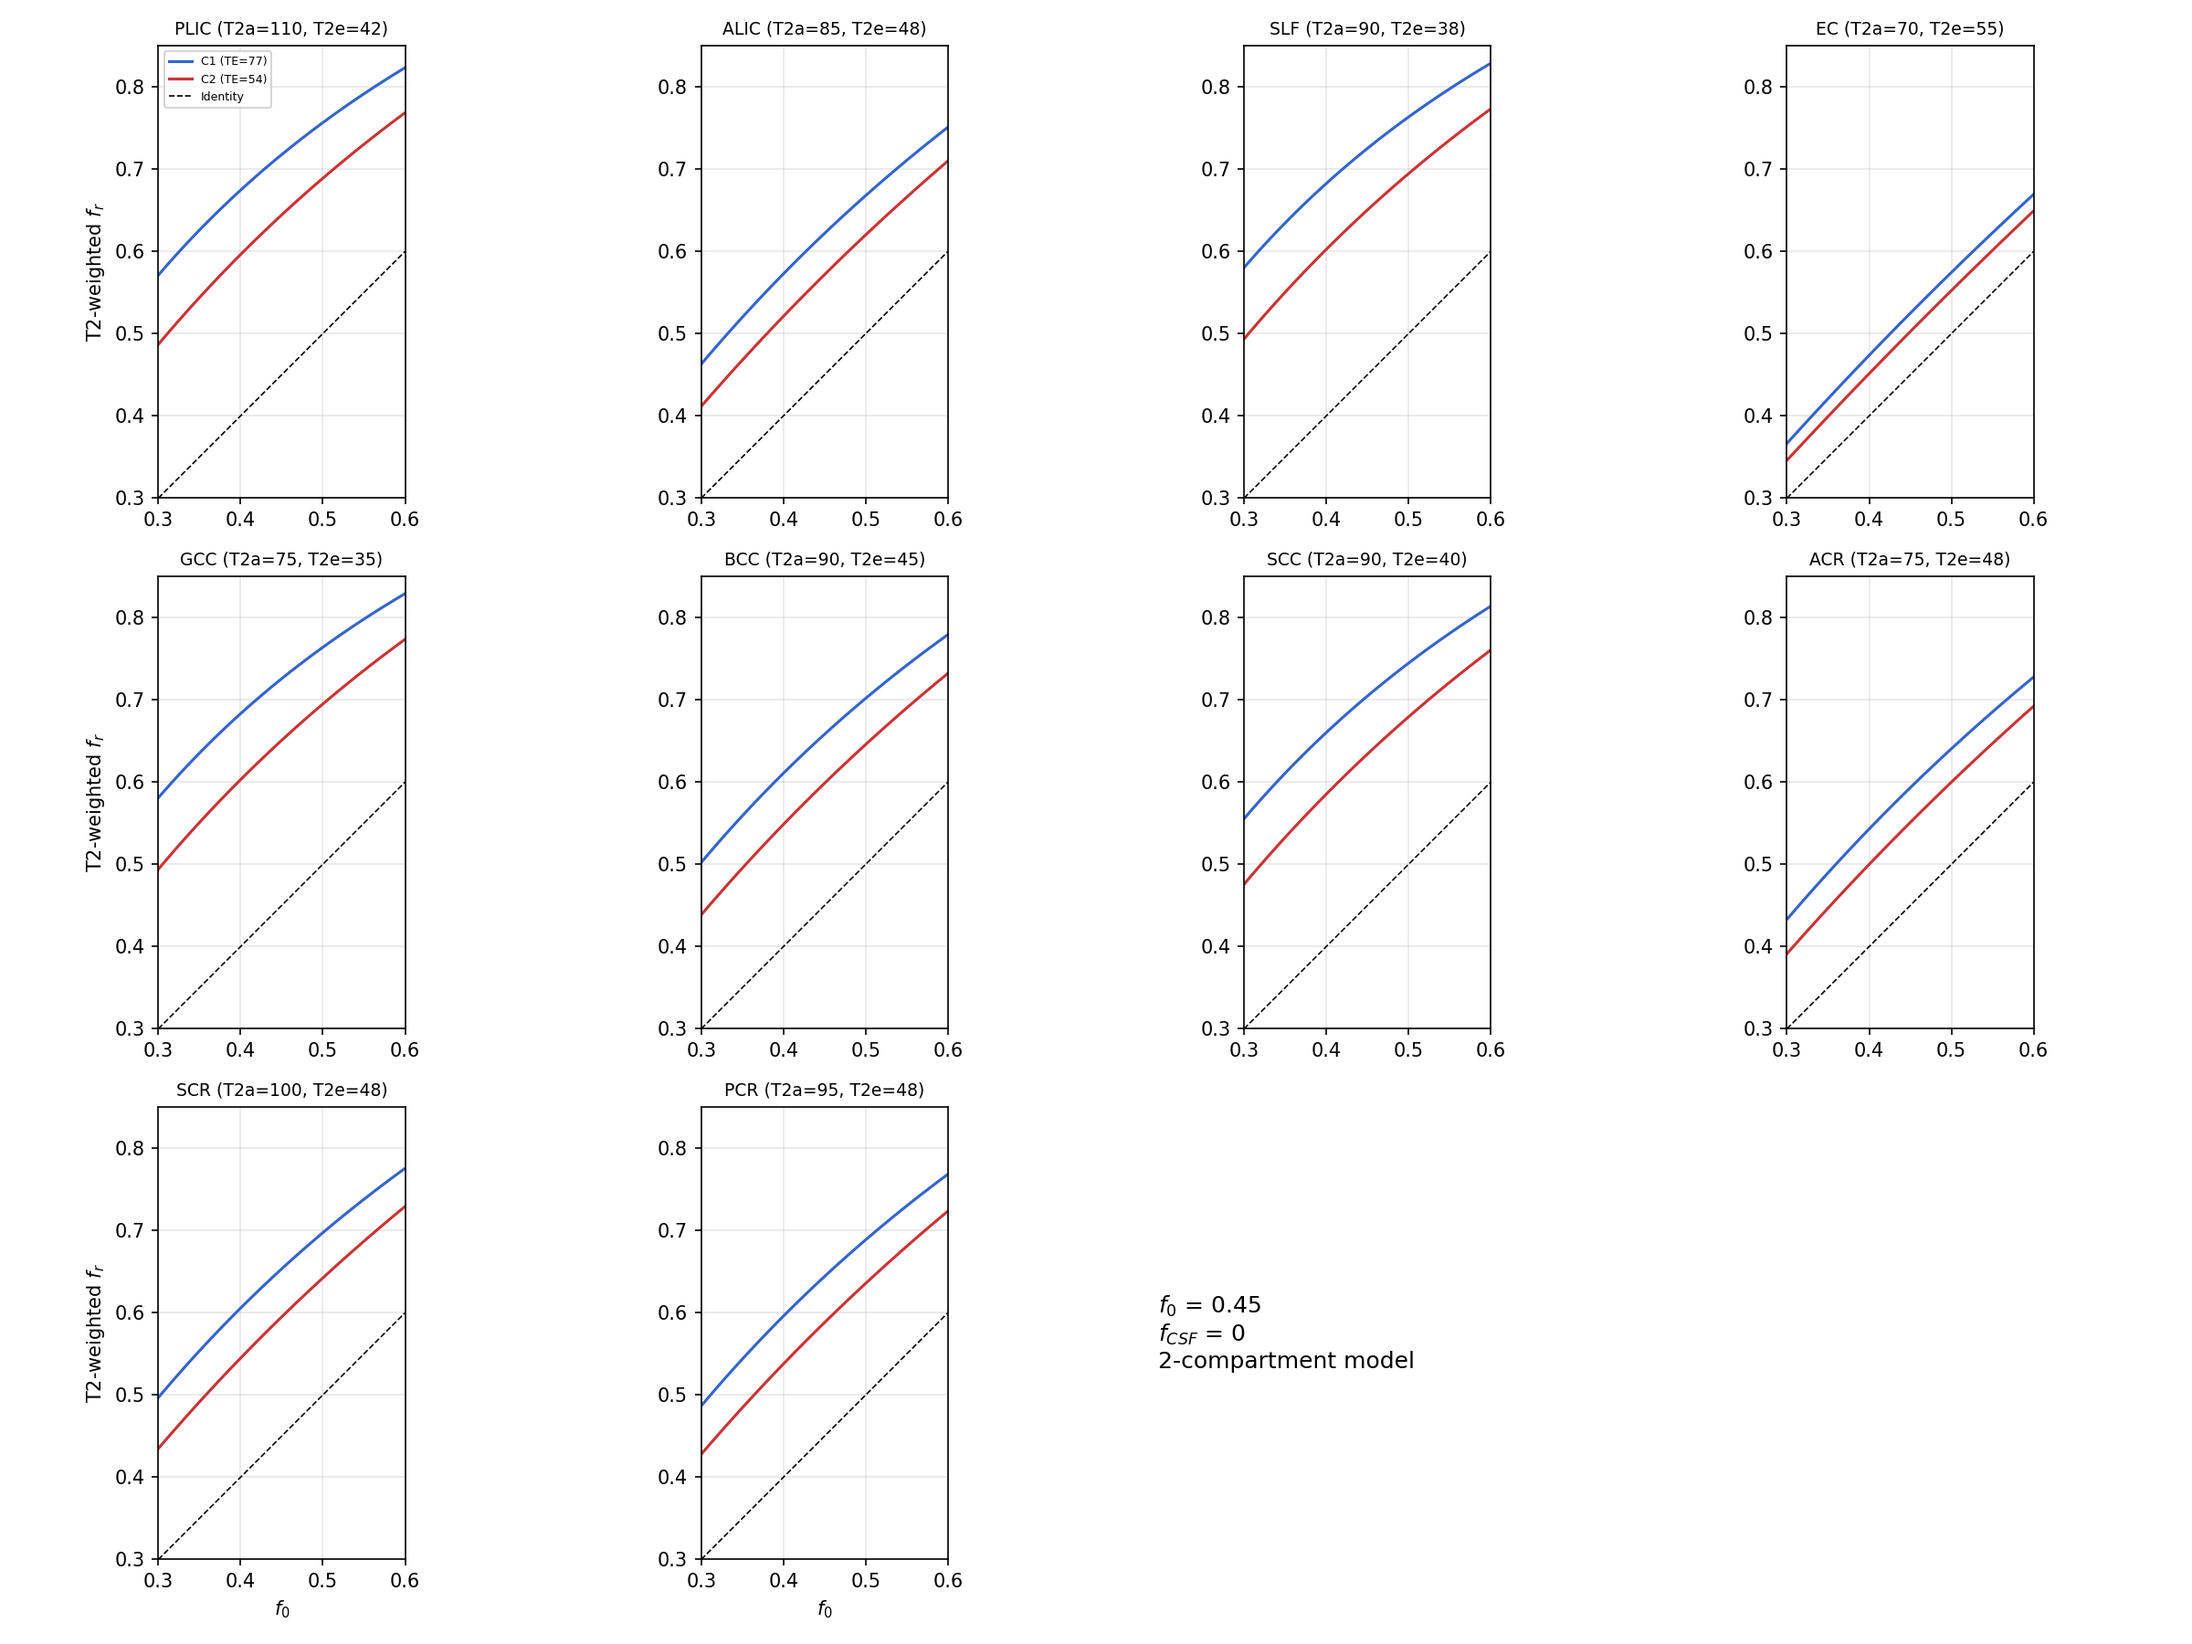
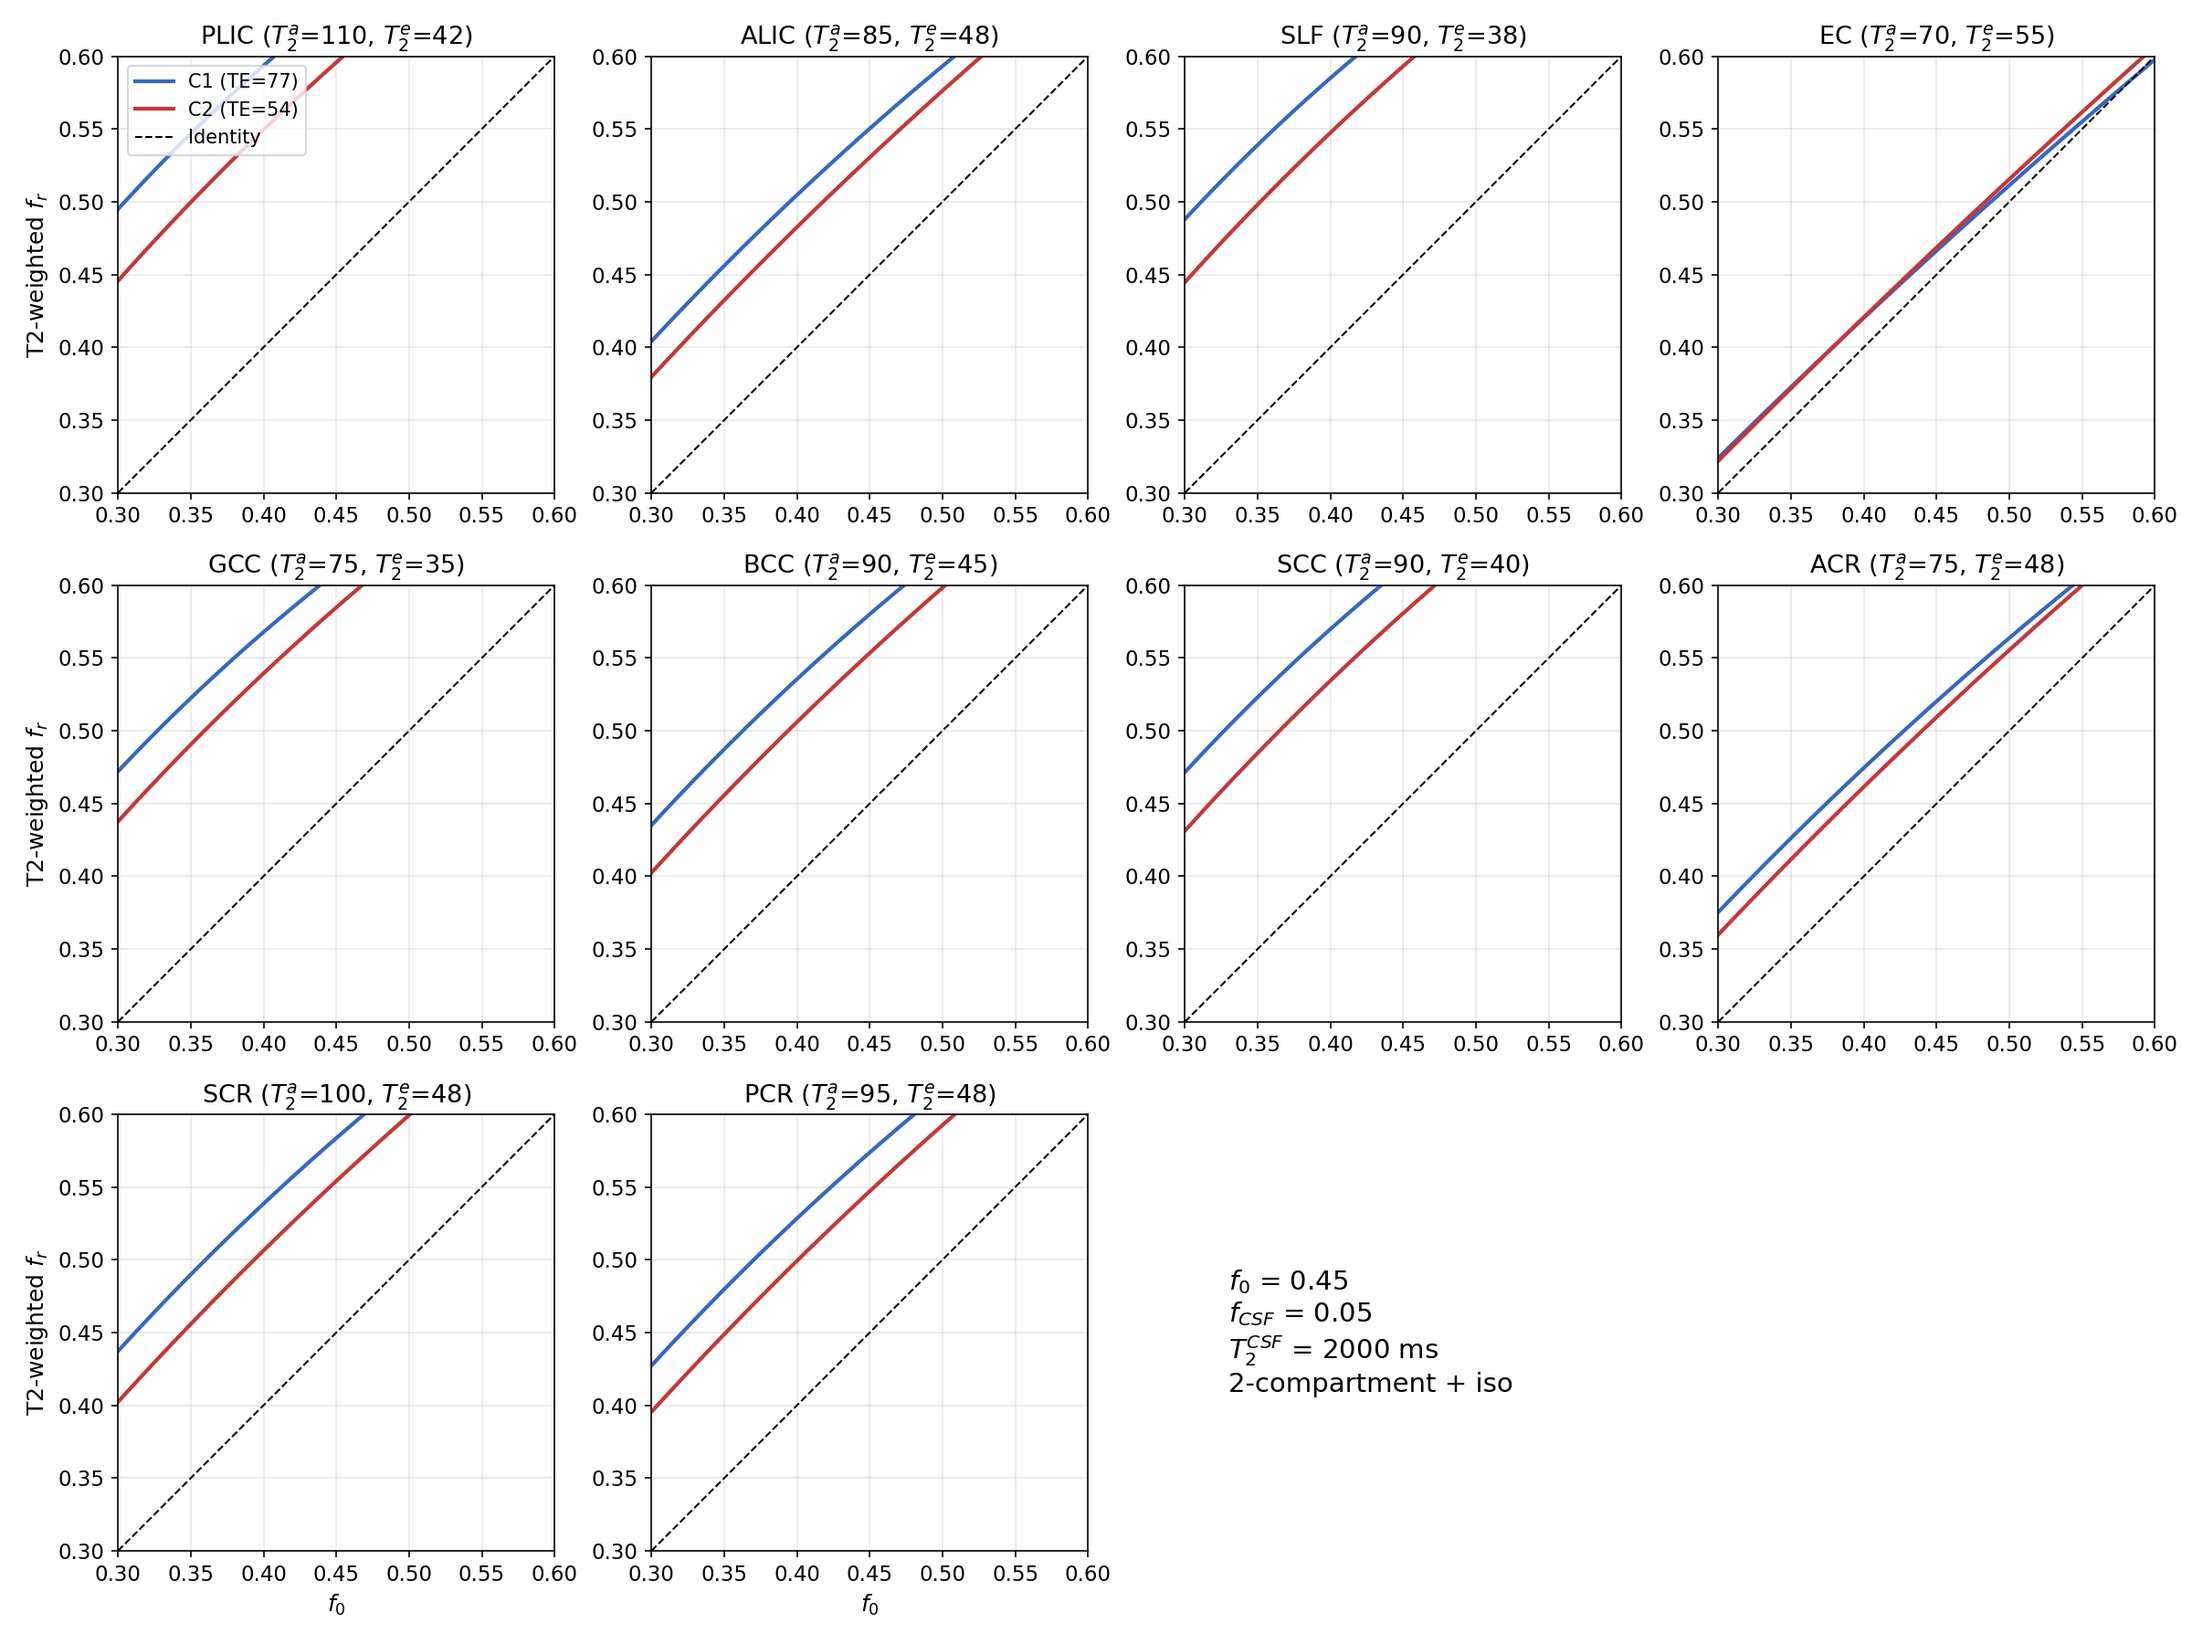
per-ROI plot: larger font, square axes (0.3-0.6), fCSF=0.05

diff --git a/demo_T2_weighted_fraction.m b/demo_T2_weighted_fraction.m
@@ -85,6 +85,8 @@ grid on; box on;
 exportgraphics(gcf, 'fig_T2_fr_pct_diff.pdf', 'ContentType', 'vector');
 
 %% 5. Figure 3: f(TE) vs original f sweep — per ROI (3x4 grid)
+fcsf = 0.05;
+T2csf = 2000;
 fr_sweep = linspace(0.3, 0.6, 50);
 
 figure('unit','inch','position',[0 0 16 12]);
@@ -100,30 +102,32 @@ for k = 1:Nroi
         fr_app = zeros(size(fr_sweep));
         for i = 1:numel(fr_sweep)
             f = fr_sweep(i);
-            fr_app(i) = f*exp(-TE/T2a) / (f*exp(-TE/T2a) + (1-f)*exp(-TE/T2e));
+            fe = 1 - f - fcsf;
+            ea = exp(-TE/T2a); ee = exp(-TE/T2e); ec = exp(-TE/T2csf);
+            fr_app(i) = f*ea / (f*ea + fe*ee + fcsf*ec);
         end
-        plot(fr_sweep, fr_app, '-', 'Color', col, 'LineWidth', 1.5); hold on;
+        plot(fr_sweep, fr_app, '-', 'Color', col, 'LineWidth', 2); hold on;
     end
 
-    plot([0.3 0.6], [0.3 0.6], 'k--', 'LineWidth', 0.8);
+    plot([0.3 0.6], [0.3 0.6], 'k--', 'LineWidth', 1);
 
-    xlim([0.3 0.6]); ylim([0.3 0.85]);
+    xlim([0.3 0.6]); ylim([0.3 0.6]);
     pbaspect([1 1 1]); grid on; box on;
-    title(sprintf('%s (T2a=%d, T2e=%d)', roi_names{k}, T2a, T2e), 'FontSize', 8);
+    set(gca, 'FontSize', 11);
+    title(sprintf('%s (T2a=%d, T2e=%d)', roi_names{k}, T2a, T2e), 'FontSize', 13);
 
     if k == 1
         legend({'C1 (TE=77)', 'C2 (TE=54)', 'Identity'}, ...
-            'FontSize', 6, 'Location', 'northwest');
+            'FontSize', 10, 'Location', 'northwest');
     end
-    if mod(k-1,4) == 0; ylabel('T2-weighted f_r'); end
-    if k > 7; xlabel('f_0'); end
+    if mod(k-1,4) == 0; ylabel('T2-weighted f_r', 'FontSize', 12); end
+    if k > 8; xlabel('f_0', 'FontSize', 12); end
 end
 
-% Use last tile (3x4=12, only 10 ROIs) for annotation
-nexttile;
-axis off;
-text(0.1, 0.5, sprintf('f_0 = %.2f\nfCSF = 0\n2-compartment', f0), ...
-    'FontSize', 10, 'VerticalAlignment', 'middle');
+% Use last tiles (3x4=12, only 10 ROIs) for annotation
+nexttile; axis off;
+text(0.1, 0.5, sprintf('f_0 = %.2f\nf_{CSF} = %.2f\nT2_{CSF} = %d ms', f0, fcsf, T2csf), ...
+    'FontSize', 14, 'VerticalAlignment', 'middle');
 
 exportgraphics(gcf, 'fig_T2_weighted_fraction_per_ROI.pdf', 'ContentType', 'vector');
 
